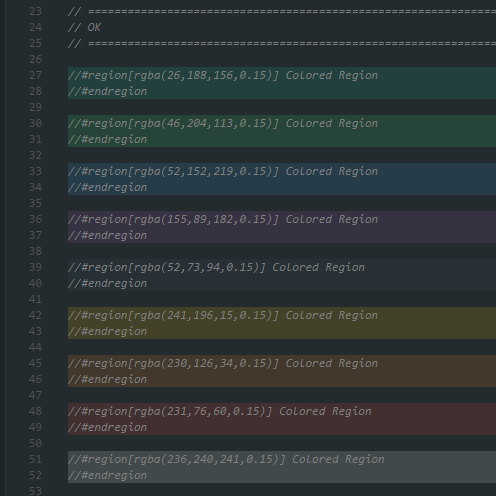
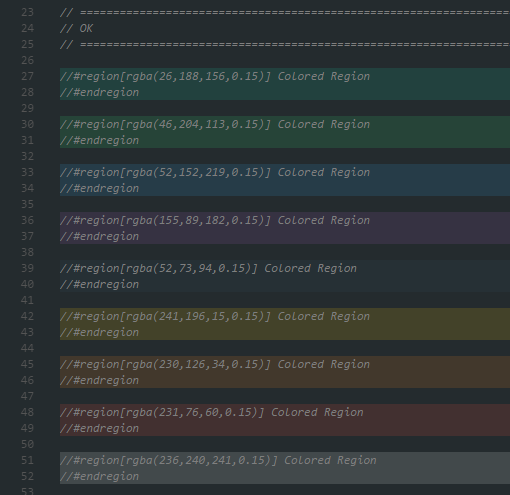
Languages and spaces
- Added support for more languages
- Added support for space variation in the color definition
- Updated the testDocument to reflect these changes
- FIXED: https://github.com/jmihelcic/colored-regions/issues/1

diff --git a/src/extension.ts b/src/extension.ts
@@ -17,8 +17,8 @@ interface DecoratorInstances {
 // this method is called when vs code is activated
 export function activate(context: vscode.ExtensionContext) {
     const decoratorInstances: DecoratorInstances = {};
-    // Finds //#region[rgba(255,255,255,0.01)] ... //#endregion (spaces allowed around ",")
-    const regex = /\/\/#region(\[rgba\(\d{1,3}\s?,\s?\d{1,3}\s?,\s?\d{1,3}\s?,\s?\d(?:\.\d{1,2})?\)\])([\s\S]*?)\/\/#endregion/g;
+    // Finds region[rgba(255,255,255,0.01)] ... endregion (spaces allowed around ",")
+    const regex = /[Rr]egion ?(\[ ?rgba\(\d{1,3} ?, ?\d{1,3} ?, ?\d{1,3} ?, ?\d(?:\.\d{1,2})?\) ?\])([\s\S]*?)[Ee]nd ?[Rr]egion/g;
 
     vscode.window.visibleTextEditors.map((editor) => {
         colorRegions(editor);

diff --git a/README.md b/README.md
@@ -19,7 +19,7 @@ ext install colored-regions
 Customize your regions by providing a `rgba(r, g, b, a)` color.
 
 ```javascript
-//#region[rgba(255, 255, 255, 0.15)] Hello region
+//#region [rgba(255, 255, 255, 0.15)] Hello region
 const hello = () => 'region';
 //#endregion
 ```
@@ -30,11 +30,21 @@ const hello = () => 'region';
 
 ## Roadmap
 
-    1. Settings
-    2. Support for nested regions
+1. Settings
+2. Support for nested regions
 
 ## Release Notes
 
 ### 0.0.1
 
-    MVP release
+* MVP release
+
+### 0.0.2
+
+* Added support for more languages
+
+![supported regions](images/supported_regions.png)
+
+* Added support for space variation in the color definition
+
+![space variation](images/space_variation.png)
